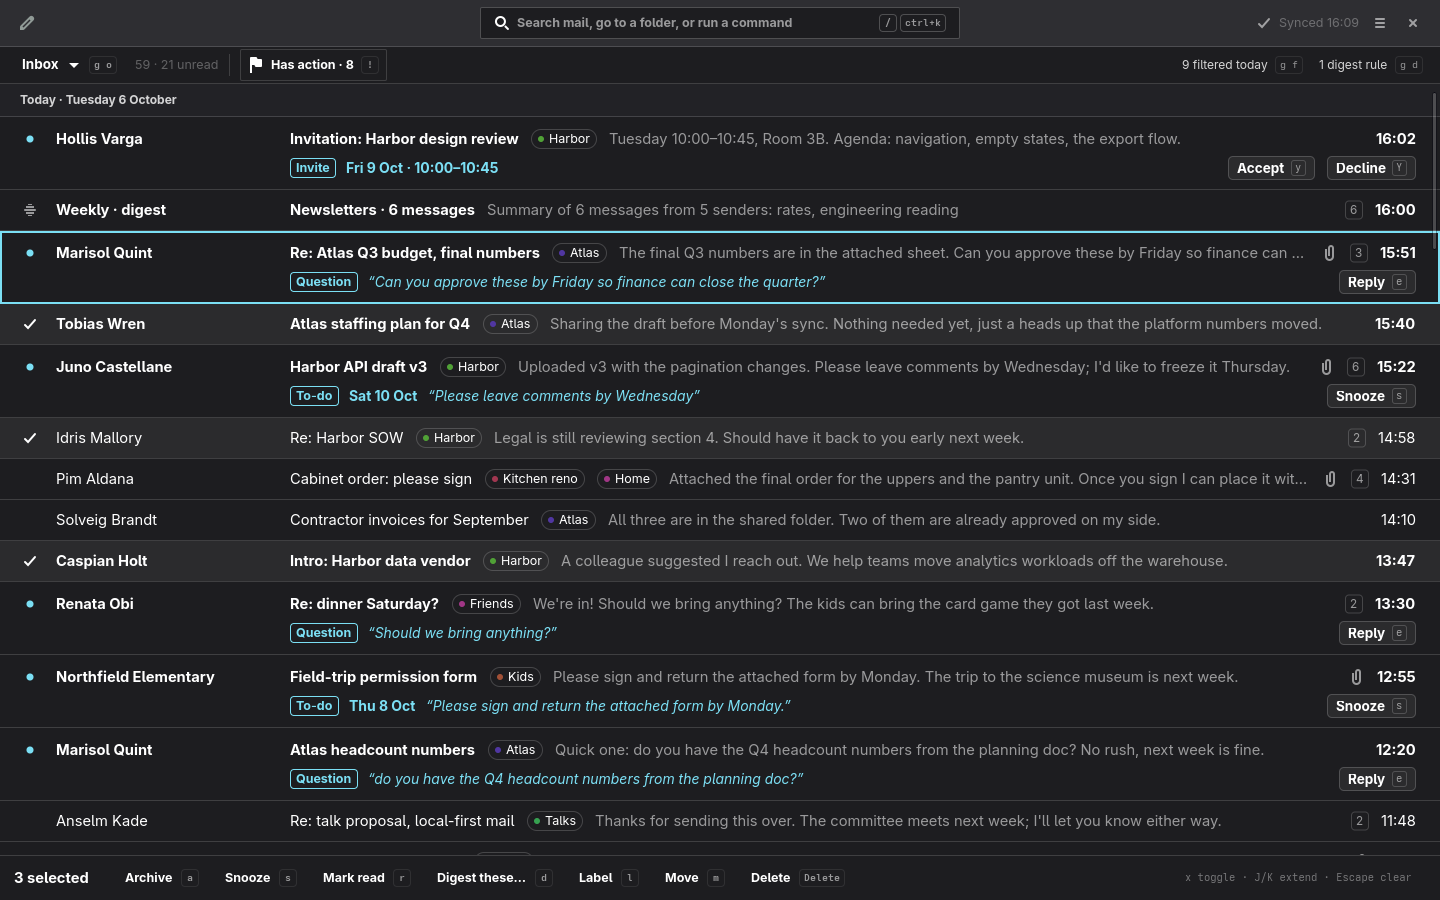
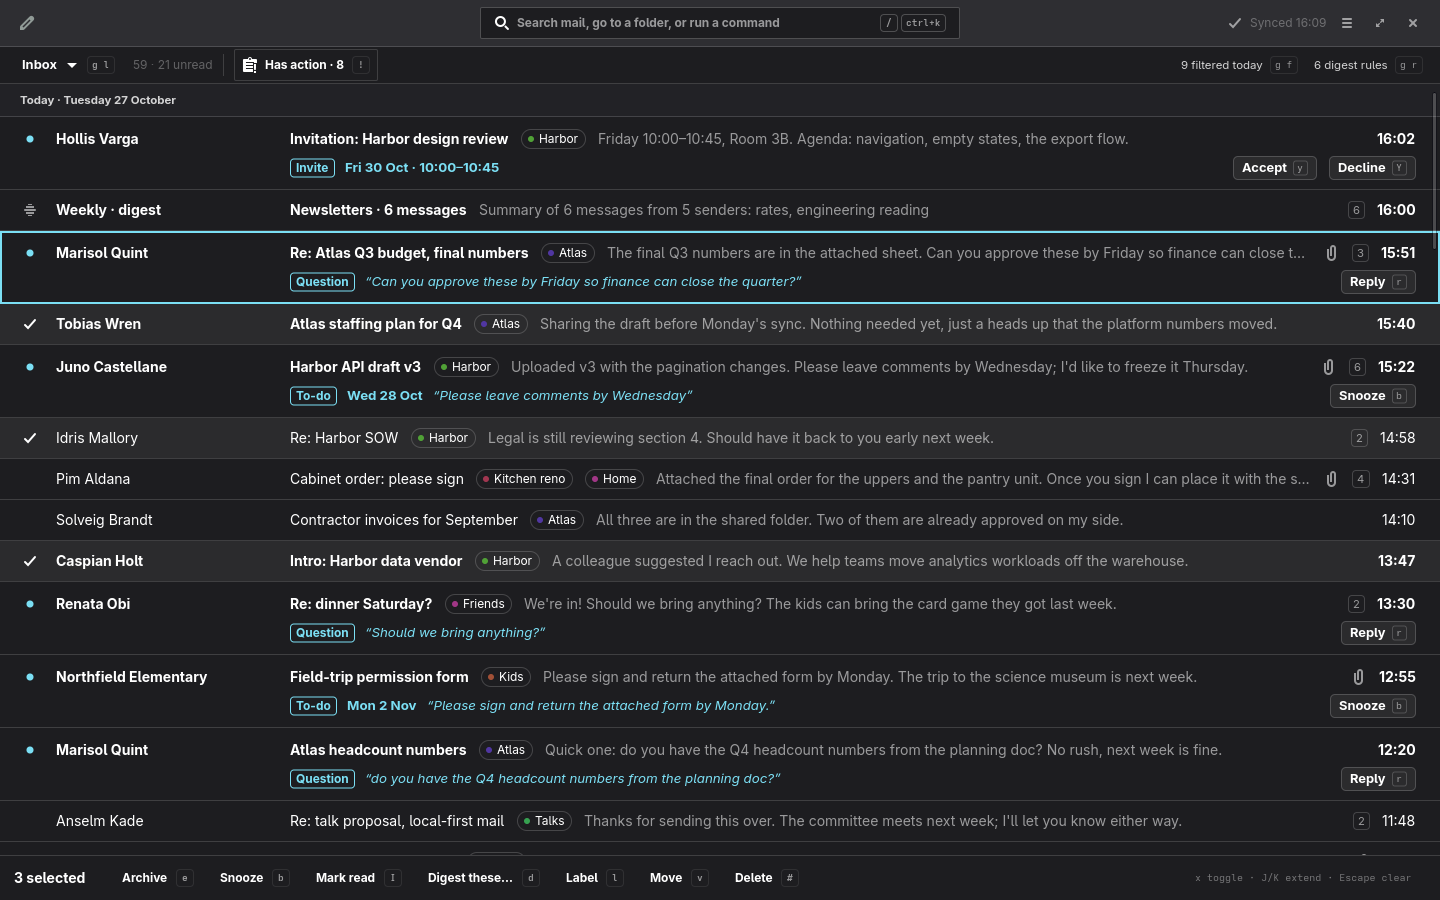
docs(release): screenshots and notes for 0.5.0 (#2067)
* fix(demo): add the compose people once

compose_demo created Grace, Graham and Ada as contacts over the demo
store, which by now has already met at least one of them as a
correspondent; creating a person for an address someone owns is
refused (AddressOwned), so screens 05 and 06 panicked and the README's
reply screenshot could not be taken. People the demo already has are
left as they are.

Claude-Session: https://claude.ai/code/session_011FdjdjYkQaPmiDEzV91ckA

* docs(release): screenshots and notes for 0.5.0

The README and the site still showed 6 October's inbox and said 0.4,
with the Mac app "built from the checkout, not released". 0.5.0 is the
first release whose workflow publishes the Mac zip, so the README, the
guide's introduction and FAQ say how to open an ad-hoc signed app, the
status section names what landed since 0.4, and the six site pictures
are retaken from the demo over today's main (crates/postio-gtk/examples/
shot.rs, screens 01, 02, 04, 06, 07, 10), with a Mac one from
scripts/macos-shot.sh. docs/releases/0.5.0.md is the release's notes,
written ahead so release-prepare.sh renders them rather than a draft.

Claude-Session: https://claude.ai/code/session_011FdjdjYkQaPmiDEzV91ckA

---------

diff --git a/crates/postio-demo/src/lib.rs b/crates/postio-demo/src/lib.rs
@@ -631,6 +631,16 @@ pub async fn compose_demo(database: &Store, account: AccountId) {
         ("Graham Ellis", "graham@example.net"),
         ("Ada Moreno", "ada@example.com"),
     ] {
+        // The demo's mail may already have made them someone; a second
+        // person for the same address is refused.
+        if contacts
+            .by_address(address)
+            .await
+            .expect("a lookup")
+            .is_some()
+        {
+            continue;
+        }
         contacts
             .create(Some(name), &[EmailAddress::new(Some(name), address)])
             .await
@@ -1810,6 +1820,27 @@ pub fn marker(message: MessageId, ask: &Ask, today: DateTime<Utc>) -> Marker {
 
 #[cfg(test)]
 mod tests {
+    /// Screens 05 and 06 add their people over the demo store, which has
+    /// already met some of them as correspondents: adding a person someone
+    /// already owns is refused, so the screenshots panicked instead.
+    #[tokio::test]
+    async fn the_compose_people_join_a_demo_that_already_met_them() {
+        let (database, account) = super::demo().await;
+        super::compose_demo(&database, account).await;
+        let connection = database.connect().await.expect("a connection");
+        let contacts = postio_storage::repository::ContactRepository::new(&connection);
+        for address in ["grace@example.org", "graham@example.net", "ada@example.com"] {
+            assert!(
+                contacts
+                    .by_address(address)
+                    .await
+                    .expect("a lookup")
+                    .is_some(),
+                "{address} is nobody"
+            );
+        }
+    }
+
     /// The digest rule comes due on the day the seed delivers it, so the
     /// window's "came due today 16:00" and the rule's "Weekly, <day> 16:00"
     /// never contradict each other.

diff --git a/README.md b/README.md
@@ -25,9 +25,9 @@ one — **frontends over one Rust engine**, not a toolkit ported. It works
 fully offline after its first sync, and never sends anything you did not ask
 it to.
 
-**Postio 0.4.0 is an alpha.** It is more complete than the number suggests,
+**Postio 0.5.0 is an alpha.** It is more complete than the number suggests,
 but it is early software: expect rough edges, read the
-[status](#whats-in-04-and-what-is-not) section before switching, and keep
+[status](#whats-in-05-and-what-is-not) section before switching, and keep
 your current client around until you trust it.
 
 - **Home page and tour:** <https://dlapiduz.github.io/postio/>
@@ -79,10 +79,9 @@ your current client around until you trust it.
 ## Install
 
 Postio runs on Linux under Wayland (GTK 4.20 and libadwaita 1.7 or newer;
-the maintainer's machine is Fedora 44), and on macOS 14 or newer. The Linux
-build is the complete one and has the three ways in below; the macOS build is
-[further down](#macos), is younger, and is honest about what it cannot do
-yet.
+the maintainer's machine is Fedora 44), and on macOS 14 or newer on Apple
+silicon. The Linux build has the three ways in below; the macOS build is
+[further down](#macos), and from 0.5.0 it is a download too.
 
 ### 1. The Flatpak bundle
 
@@ -155,6 +154,9 @@ same mail as the desktop app, one of them open at a time; see
 
 ### macOS
 
+![Postio on the Mac: the same inbox, as a native SwiftUI/AppKit window,
+with an invitation, questions and to-dos on their rows](site/assets/img/focus-macos.png)
+
 A native SwiftUI/AppKit application over the same engine, through a UniFFI
 boundary ([ADR 0019](docs/decisions/0019-macos-frontend.md)), on `main`
 since [#1306](https://github.com/dlapiduz/postio/pull/1306). CI builds the
@@ -165,8 +167,15 @@ began, which is what made this cheap: the two frontends share the store, the
 protocols, the search index, the keymap and every presentation decision that
 has no toolkit in it.
 
-Needs Xcode (Swift 6) and the pinned Rust toolchain. There is no bundle to
-download yet — it is built from the checkout:
+Every release from 0.5.0 publishes `postio-X.Y.Z-macos-arm64.zip` on the
+[Releases page](https://github.com/dlapiduz/postio/releases), with build
+provenance and an SBOM like the Linux bundle. It is ad-hoc signed and not
+notarized, so Gatekeeper refuses it on a double click: unzip it, move
+`Postio.app` to Applications, and open it once with right-click → Open.
+Apple silicon only.
+
+To build it from the checkout instead, you need Xcode (Swift 6) and the
+pinned Rust toolchain:
 
 ```bash
 scripts/macos-build.sh      # cargo, the bindings, then swift build
@@ -306,7 +315,7 @@ Every key, type and default is in [`docs/config.md`](docs/config.md).
 **No credential ever lives in `config.toml`**: an account in the file only
 references a keyring entry.
 
-## What's in 0.4 and what is not
+## What's in 0.5 and what is not
 
 **In:** several accounts with a unified inbox; IMAP + SMTP, Gmail and JMAP
 backends; password, app-specific password and OAuth 2 sign-in; folders,
@@ -316,14 +325,18 @@ compose, reply, reply-all, forward, drafts, scheduled send and an outbox
 that never sends twice; local full-text search with operators, saved
 searches and virtual folders; contacts and contact groups grown from your
 mail; notifications; vim-style keys, a command palette, every binding
-rebindable; background sync with IDLE, full offline use, and undo.
+rebindable; background sync with IDLE, full offline use, and undo. New in
+0.5: Postio Focus on both platforms — the one dense inbox with invitations,
+questions and to-dos called out on their rows, digests, and Filtered; the
+native macOS app, released; search with a dropdown, facets and a results
+view with Files and People tabs; Contacts on both platforms; and an MCP
+server that lets an agent you connect read and act on mail you share with it.
 
-**Not yet:** filters and rules (designed, not built); AI features (a
-founding idea, deliberately after the fundamentals); Microsoft Graph;
-PGP/S-MIME; phishing and link warnings; vCard import/export. The native macOS
-frontend is on `main` and every command in the registry reaches something on
-it, but it is built from the checkout, not packaged or released — see
-[macOS](#macos) for what it does. Windows is unscheduled.
+**Not yet:** general filters and rules beyond digests and Filtered; AI
+inside Postio itself (a local model you connect over MCP is the way in, and
+it is optional); Microsoft Graph; PGP/S-MIME; phishing and link warnings. The
+macOS app is unsigned by a Developer ID and not notarized — see
+[macOS](#macos). Windows is unscheduled.
 
 Postio is alpha software. Its test suite is large and its invariants are
 machine-checked, and you should still treat it as early: it has met few

diff --git a/docs/releases/0.5.0.md b/docs/releases/0.5.0.md
@@ -1,0 +1,11 @@
+Postio 0.5.0 is an alpha, and the first release with a Mac app to download. It is the release where Postio Focus — the one dense inbox, and the four things it does to mail — became the app on both platforms, over one engine.
+
+- Postio Focus is the desktop app, on Linux and the Mac: one list of mail as it arrived; invitations, direct questions and to-dos called out on their rows with the sentence that raised them; digests on a cadence you choose; Filtered, with its reason on every row and one key to restore it, and now multi-select there as in any folder.
+- The native macOS app is released: `postio-0.5.0-macos-arm64.zip`, Apple silicon, macOS 14 or newer. It is ad-hoc signed and not notarized, so open it once with right-click → Open.
+- Search moves with you: a dropdown as you type, facets for sender, date and more, and a results view with Files and People tabs, Quick Look and save.
+- Contacts, on both platforms: the people in your mail, editable, mergeable, with vCard import and export.
+- An MCP server lets an agent you connect read the mail you share with it, and archive, move and label it. Settings shows each agent's access and revokes it. Nothing is shared until you share it.
+- The reader paints a sender's own page on paper, or the message in the app's colours; zoom, find in the message, darken a sheet, and fall back visibly when a render runs past its deadline.
+- Notifications on the Mac follow `[sync] notify_roles`, as on Linux: mail arriving in Trash, Spam or Archive no longer notifies.
+- Retrieval is sturdier: a moved message keeps its body and is not shown twice, a header-only refresh keeps the body already fetched, a refused download says so at once, a message open while the connection drops loads as soon as it returns, and an account signed in again asks its new connection for what was waiting.
+- Under the hood: mail-parser 1.0 (damaged base64 recovered instead of stored as text, RFC 2231 names and encoded words decoded across their pieces, a date's `+5` read as +05:00) and mail-builder 2.0 (control characters can no longer inject a header through an address); Turso 0.8.3 with its full-text index on tantivy 0.27; Rust 1.99.1.

diff --git a/docs/book/src/introduction.md b/docs/book/src/introduction.md
@@ -45,7 +45,7 @@ restored. And it captures a message into an Obsidian vault as a task or a
 note. A local model you run yourself can write digest summaries and spot
 questions and to-dos; without one, a built-in detector does the second.
 
-## What 0.4 does
+## What 0.5 does
 
 Several accounts with one unified inbox, over IMAP and SMTP, the Gmail API,
 or JMAP, signed in with a password, an app-specific password, or OAuth 2
@@ -57,17 +57,19 @@ full-text search with operators, pinned saved searches, and a suggestion
 when a query finds nothing. An address book with groups, grown from the
 people in your mail. Vim-style navigation and one command bar, every
 binding rebindable. Background sync with IDLE, full offline use, and
-undo.
+undo. Search with a dropdown, facets, and results with Files and People
+tabs. Contacts, on Linux and the Mac. An MCP server through which an agent
+you connect can read, and act on, the mail you share with it.
 
 ## What it deliberately doesn't do yet
 
-Postio 0.4 is an alpha. It runs on Linux (GTK4/libadwaita); a native macOS
-frontend over the same engine reads mail today but is not yet released.
-Filters and rules are designed and not built. Beyond the optional local
+Postio 0.5 is an alpha. It runs on Linux (GTK4/libadwaita) and, from 0.5,
+as a released native macOS app over the same engine. General filters and
+rules, beyond digests and Filtered, are designed and not built. Beyond the optional local
 model above there are no AI features — not because they aren't planned, but
 because shipping AI over a mediocre mail client would just produce a
 mediocre mail client with AI in it. Core mail, search, and the keyboard come
-first. PGP/S-MIME, phishing warnings and vCard import are also still to
+first. PGP/S-MIME and phishing warnings are also still to
 come, each with its own tracked issue.
 
 Ready to try it? See [Installing Postio](install.md).

diff --git a/docs/book/src/faq.md b/docs/book/src/faq.md
@@ -2,21 +2,21 @@
 
 ## Is Postio ready to use as my daily mail client?
 
-Postio 0.4 is an alpha. It supports several IMAP, Gmail or JMAP accounts
+Postio 0.5 is an alpha. It supports several IMAP, Gmail or JMAP accounts
 with a password, an app-specific password or OAuth 2, and covers the
 everyday work — reading, searching, replying, filing, snoozing, undo — with
 full offline use. If that covers your setup it's usable today, but treat it
 as early software: keep your existing client around until you're confident
 in it, and expect to file the rough edges you find.
 
-## Why Linux only?
+## Which platforms does it run on?
 
-v1 targets GTK4/libadwaita on Linux because that's where the team could
-build something excellent fastest, not because other platforms are ruled
-out. The engine underneath the UI has no GTK in it and no database code in
-the view layer — that boundary is enforced automatically — and a native
-macOS frontend over the same engine already reads mail, searches and pages.
-It is built and tested but not yet released. Windows is not scheduled.
+Linux, as a GTK4/libadwaita app and a terminal app, and macOS 14 or newer on
+Apple silicon, as a native SwiftUI/AppKit app, released from 0.5.0. Both are
+frontends over one engine that has no GTK in it and no database code in the
+view layer — that boundary is enforced automatically. The Mac download is
+ad-hoc signed and not notarized, so it is opened once with right-click →
+Open. Windows is not scheduled.
 
 ## Does Postio support multiple accounts?
 

diff --git a/docs/book/src/releases.md b/docs/book/src/releases.md
@@ -1,9 +1,13 @@
 # Release notes
 
-Every tagged release publishes a Flatpak bundle on the
-[Releases page](https://github.com/dlapiduz/postio/releases). The notes
+Every tagged release publishes a Flatpak bundle, and from 0.5.0 a macOS
+app, on the [Releases page](https://github.com/dlapiduz/postio/releases). The notes
 below are the same text the release carries; `docs/releases/` in the
 repository is where they are written.
+
+## 0.5.0
+
+{{#include ../../releases/0.5.0.md}}
 
 ## 0.4.2
 
